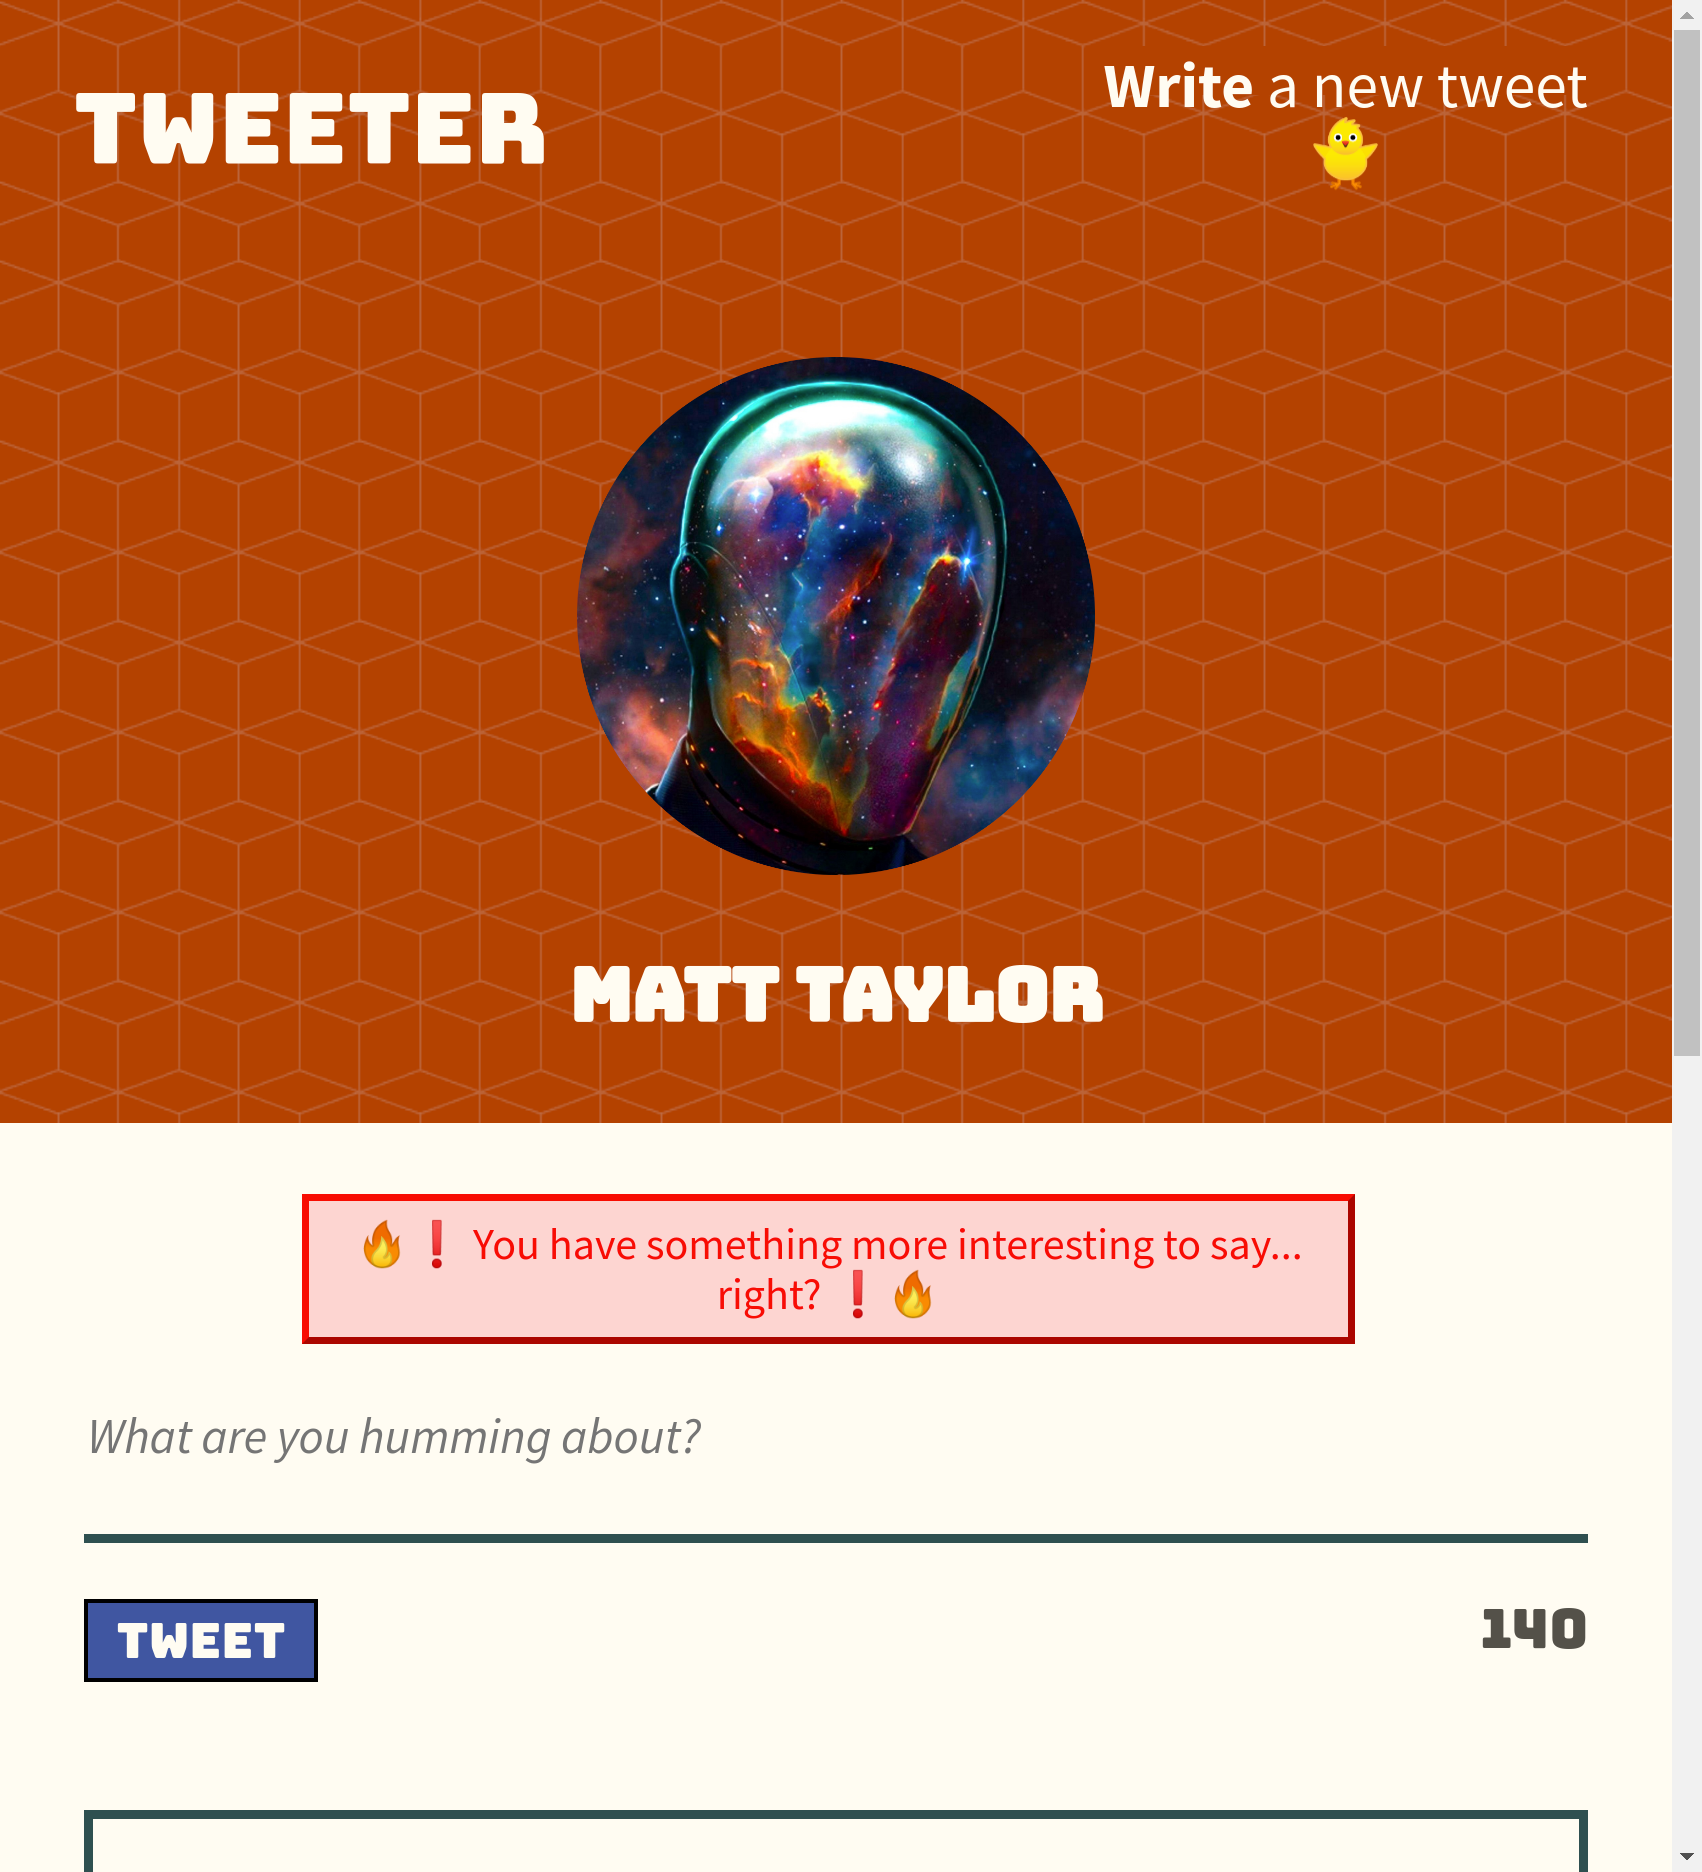
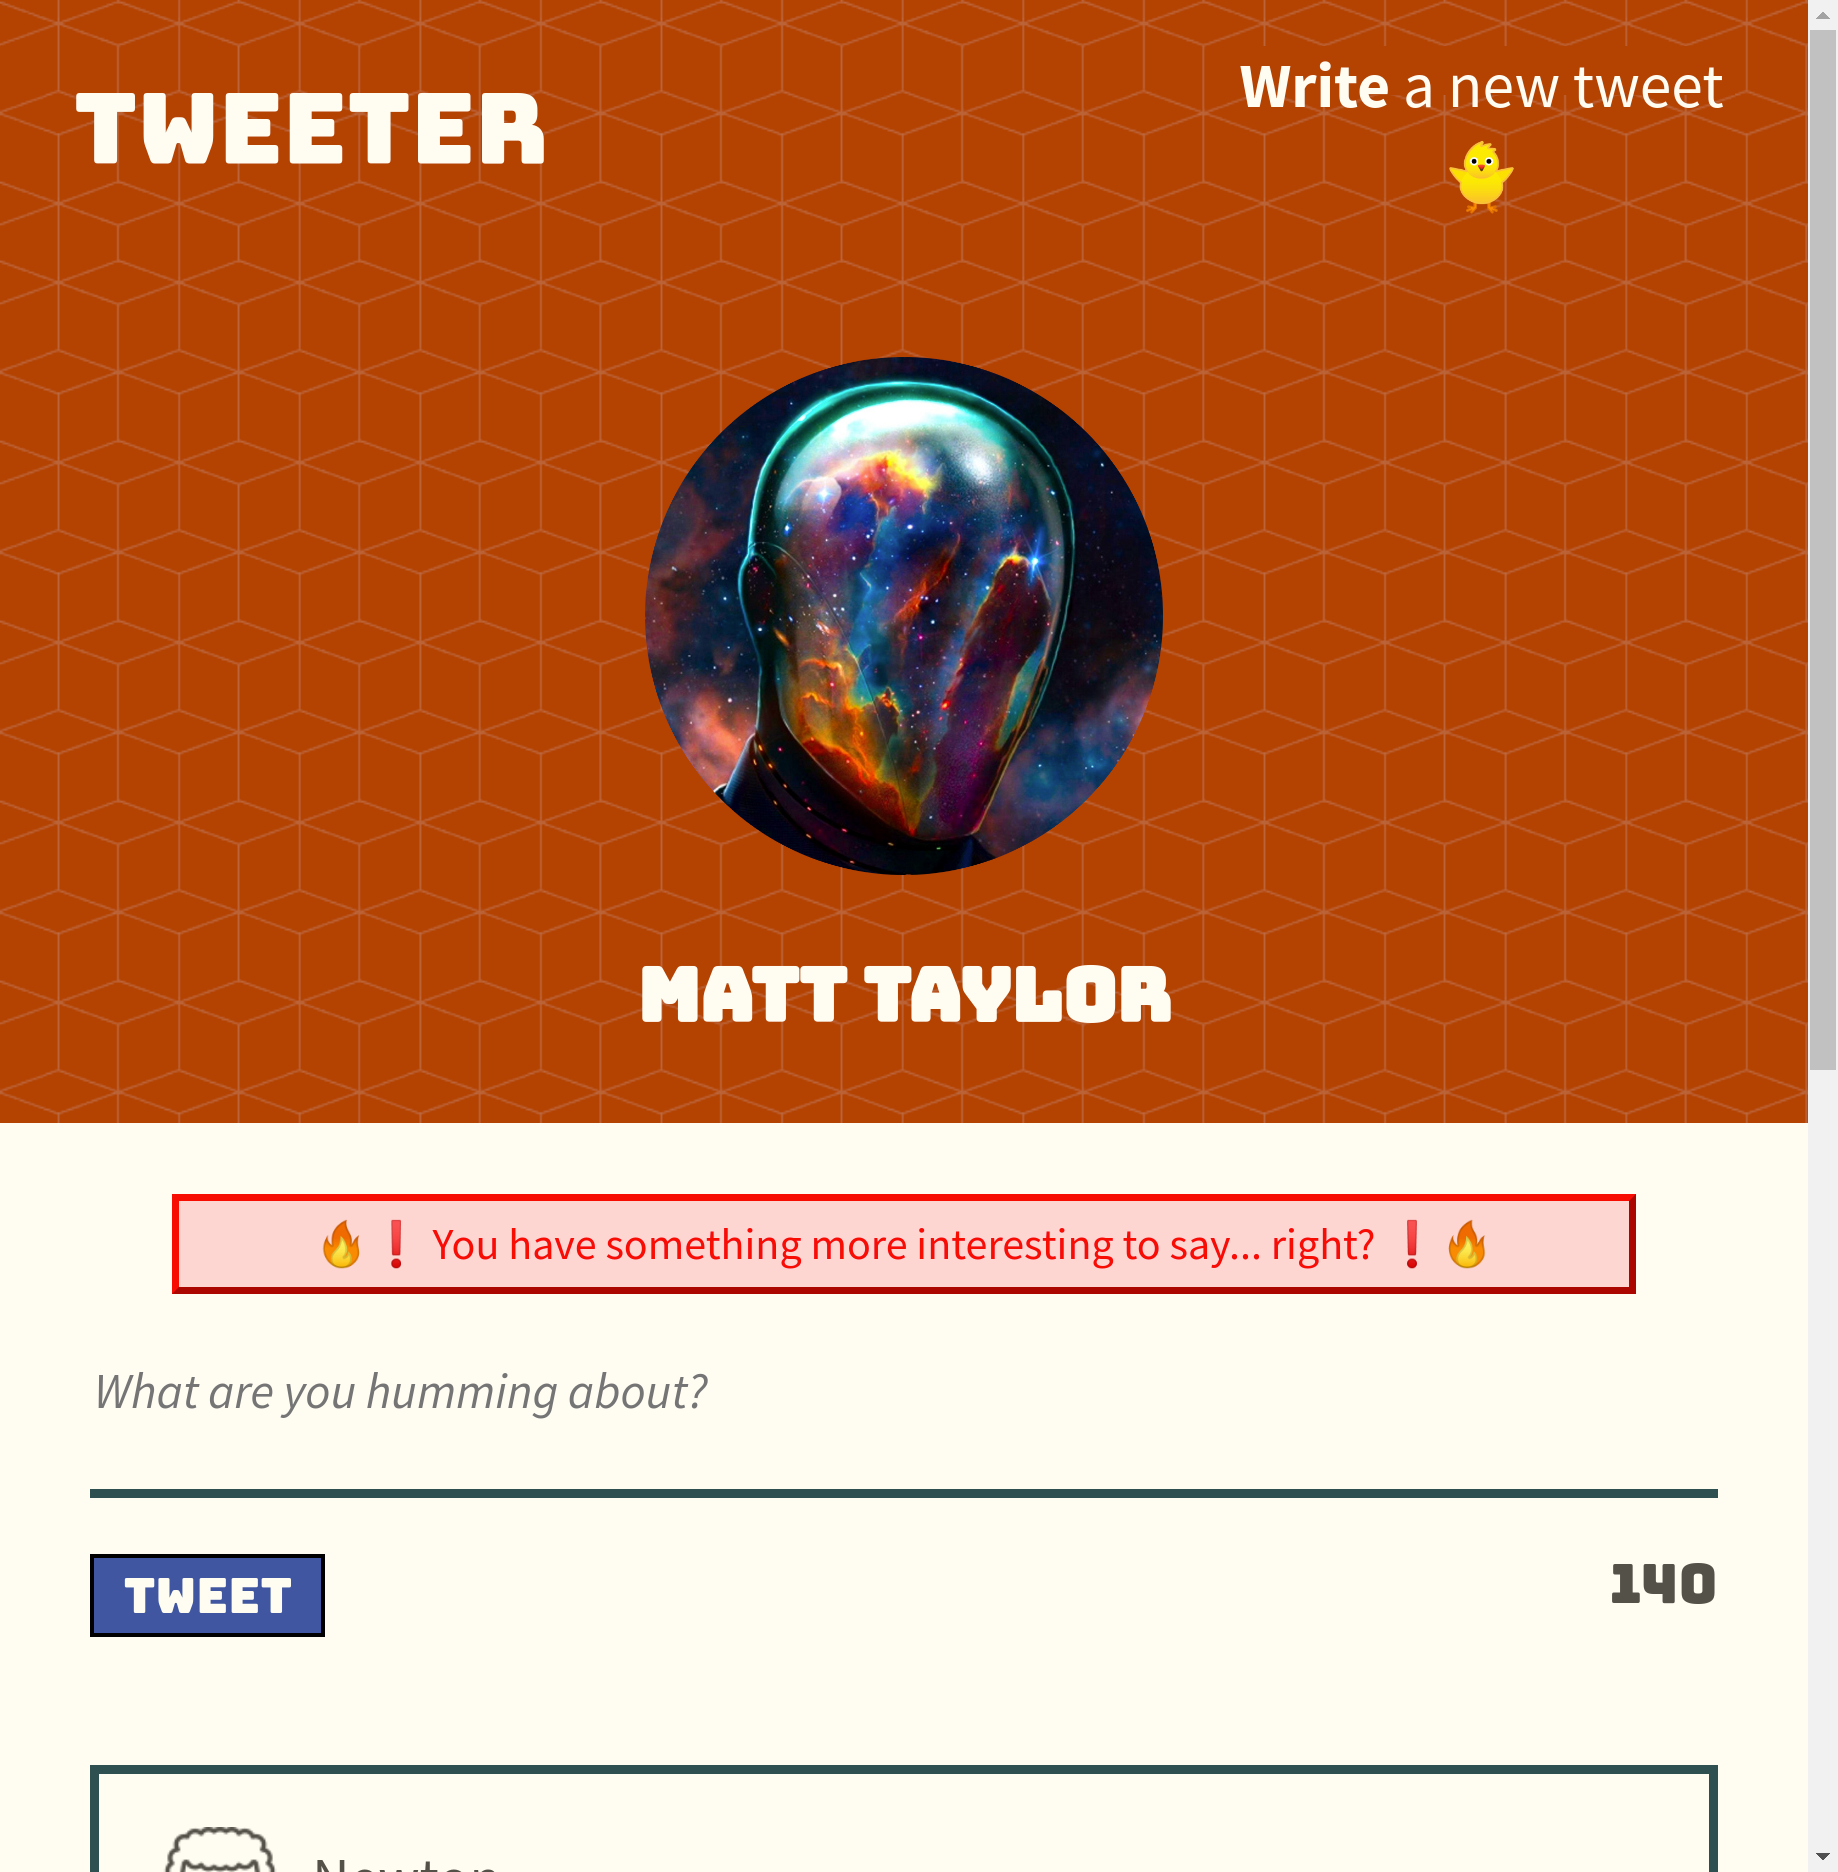
Fix final bug

Changed region(s): [[0.0311, 0.0, 1.0, 0.5887], [0.0311, 0.6197, 0.9342, 0.8985], [0.0311, 0.9295, 0.9342, 1.0]]

diff --git a/public/styles/new-tweet.css b/public/styles/new-tweet.css
@@ -123,8 +123,9 @@ body > header:first-of-type {
   padding: 0.4em;
   font-size: 0.9em;
   background: rgba(250, 9, 9, 0.151);
-  width: 70%;
-  margin-left: 14.5%;
+  width: 90%;
+  margin: auto;
+  margin-top: 1em;
   position: relative;
   text-align: center;
 }

diff --git a/public/styles/new-tweet.scss b/public/styles/new-tweet.scss
@@ -50,8 +50,9 @@
   padding: 0.4em;
   font-size: 0.9em;
   background: rgba(250, 9, 9, 0.151);
-  width: 70%;
-  margin-left: 14.5%;
+  width: 90%;
+  margin: auto;
+  margin-top: 1em;
   position: relative;
   text-align: center;
 }

diff --git a/README.md b/README.md
@@ -13,9 +13,9 @@ This repository is the starter code for the project: Students will fork and clon
 
 ## Extra Features
 
-* "Write a New Tweet" button at the top brings down the text area to compose in. Fancy, right?
+* "Write a New Tweet" button at the top brings down the text area to compose in. Neat eh?
 * As you scroll down the page, a button will appear in the bottom right corner that, if clicked on, will gently bring you back up to the text area to compose a new tweet.
-* Written with SASS-y flair.
+* Written with sass-y flair.
 
 ## Screenshots
 
